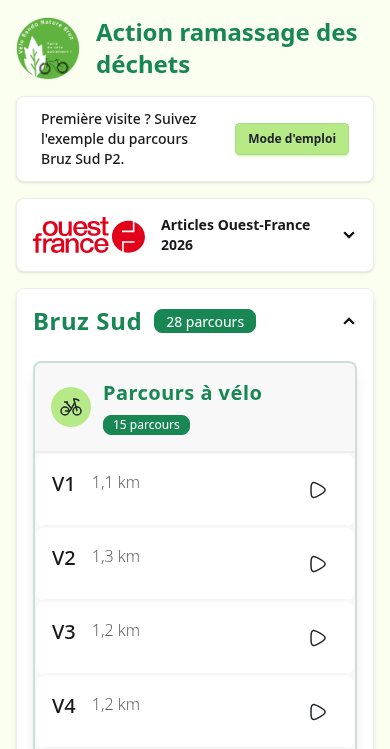
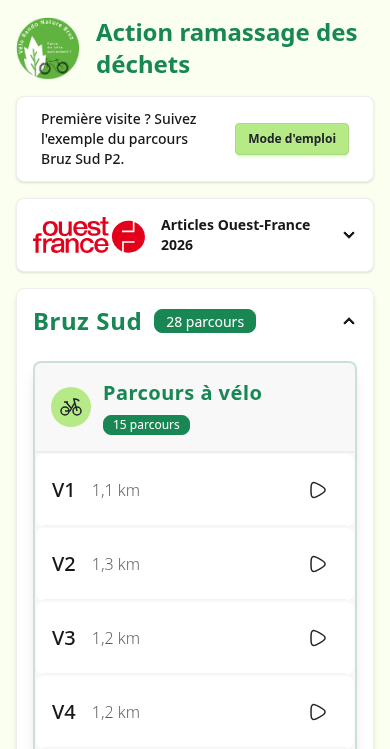
fix: update meeting point references in tour-related files for consistency

diff --git a/apps/clean/src/app/manual/manual.html b/apps/clean/src/app/manual/manual.html
@@ -57,8 +57,8 @@
         <strong>Bruz Sud</strong>
         fait
         <strong>800 mètres</strong>
-        de nettoyage. Comptez un petit trajet pour aller au départ depuis la Place du Dr Joly, puis
-        pour revenir à la fin.
+        de nettoyage. Comptez un petit trajet pour aller au départ depuis le lieu de rendez-vous,
+        puis pour revenir à la fin.
       </p>
 
       <ol class="flex flex-col gap-6">
@@ -89,8 +89,8 @@
         <li>
           <p class="pb-2 text-sm sm:text-base">
             <strong>2. Première étape : l'aller.</strong>
-            La carte vous montre le chemin de la
-            <strong>Place du Dr Joly</strong>
+            La carte vous montre le chemin du
+            <strong>lieu de rendez-vous</strong>
             jusqu'au départ du parcours. Marchez jusque-là, puis appuyez sur
             <strong>Suivant</strong>
             en bas de l'écran.
@@ -133,8 +133,8 @@
         <li>
           <p class="pb-2 text-sm sm:text-base">
             <strong>4. Troisième étape : le retour.</strong>
-            La carte vous montre le chemin pour revenir à la
-            <strong>Place du Dr Joly</strong>
+            La carte vous montre le chemin pour revenir au
+            <strong>lieu de rendez-vous</strong>
             : une fois arrivé, appuyez sur
             <strong>Terminer</strong>
             en bas de l'écran pour valider.
@@ -147,7 +147,7 @@
               loading="lazy"
             />
             <figcaption class="pt-2 text-center text-sm opacity-70">
-              Revenez à la Place du Dr Joly, puis appuyez sur Terminer.
+              Revenez au lieu de rendez-vous, puis appuyez sur Terminer.
             </figcaption>
           </figure>
         </li>
@@ -232,7 +232,7 @@
         </li>
         <li>
           <strong>Télécharger le fichier pour aller au départ :</strong>
-          le chemin depuis la Place du Dr Joly jusqu'au départ, à ouvrir dans votre téléphone.
+          le chemin depuis le lieu de rendez-vous jusqu'au départ, à ouvrir dans votre téléphone.
         </li>
         <li>
           <strong>Télécharger le fichier du parcours :</strong>
@@ -240,20 +240,20 @@
         </li>
         <li>
           <strong>Télécharger le fichier pour revenir :</strong>
-          le chemin de la fin du parcours jusqu'à la Place du Dr Joly.
+          le chemin de la fin du parcours jusqu'au lieu de rendez-vous.
         </li>
         <li>
-          <strong>Revenir à la Place du Dr Joly depuis ma position (via GeoVelo) :</strong>
+          <strong>Revenir au lieu de rendez-vous depuis ma position (via GeoVelo) :</strong>
           ouvre le guidage à vélo depuis l'endroit où vous vous trouvez, pratique si vous vous êtes
           éloigné du parcours.
         </li>
         <li>
           <strong>Itinéraire vers le point de départ (via GeoVelo) :</strong>
-          ouvre le guidage à vélo de la Place du Dr Joly jusqu'au départ du parcours.
+          ouvre le guidage à vélo du lieu de rendez-vous jusqu'au départ du parcours.
         </li>
         <li>
           <strong>Itinéraire pour revenir (via GeoVelo) :</strong>
-          ouvre le guidage à vélo de la fin du parcours jusqu'à la Place du Dr Joly.
+          ouvre le guidage à vélo de la fin du parcours jusqu'au lieu de rendez-vous.
         </li>
       </ul>
     </div>

diff --git a/apps/clean/src/app/tour-drawer/tour-drawer.html b/apps/clean/src/app/tour-drawer/tour-drawer.html
@@ -49,7 +49,7 @@
         <li>
           <a [href]="getGpxUrl('end')" download target="_blank" rel="noopener">
             <hugeicons-icon [icon]="tree06Icon" [strokeWidth]="1.5" alt="" />
-            Télécharger le GPX pour retourner à la {{ meetingPointNameLower }}
+            Télécharger le GPX pour retourner au lieu de rendez-vous
           </a>
         </li>
       }
@@ -67,7 +67,7 @@
           rel="noopener noreferrer"
         >
           <hugeicons-icon [icon]="tree06Icon" [strokeWidth]="1.5" alt="" />
-          Retourner à la {{ meetingPointNameLower }} depuis ma position
+          Retourner au lieu de rendez-vous depuis ma position
         </a>
       </li>
 
@@ -83,7 +83,7 @@
         <li>
           <a [href]="gpxService.links().fromEnd" target="_blank" rel="noopener noreferrer">
             <hugeicons-icon [icon]="tree06Icon" [strokeWidth]="1.5" alt="" />
-            Itinéraire pour retourner à la {{ meetingPointNameLower }}
+            Itinéraire pour retourner au lieu de rendez-vous
           </a>
         </li>
       }

diff --git a/apps/clean/e2e/tour.spec.ts b/apps/clean/e2e/tour.spec.ts
@@ -161,7 +161,7 @@ test.describe('Tour page — V1 (bike)', () => {
       await expect(tourGpx).toHaveAttribute('href', '/gpx/bruz-sud/V1/V1.gpx');
 
       const endGpx = drawerSide.locator('a', {
-        hasText: 'GPX pour retourner à la',
+        hasText: 'GPX pour retourner au lieu',
       });
       await expect(endGpx).toBeVisible();
       await expect(endGpx).toHaveAttribute('href', '/gpx/bruz-sud/V1/V1_end.gpx');
@@ -234,7 +234,7 @@ test.describe('Tour page — P3 (walking)', () => {
     await expect(tourGpx).toHaveAttribute('href', '/gpx/bruz-sud/P3/P3.gpx');
 
     const endGpx = drawerSide.locator('a', {
-      hasText: 'GPX pour retourner à la',
+      hasText: 'GPX pour retourner au lieu',
     });
     await expect(endGpx).toBeVisible();
     await expect(endGpx).toHaveAttribute('href', '/gpx/bruz-sud/P3/P3_end.gpx');

diff --git a/apps/clean/src/app/tour-drawer/tour-drawer.ts b/apps/clean/src/app/tour-drawer/tour-drawer.ts
@@ -10,7 +10,7 @@ import {
   Tree06Icon,
 } from '@hugeicons/core-free-icons';
 import { GpxService } from '../shared/gpx/gpx.service';
-import { DEFAULT_ZONE_ID, getZone } from '../zones';
+import { DEFAULT_ZONE_ID } from '../zones';
 
 @Component({
   selector: 'app-drawer',
@@ -22,14 +22,6 @@ export class TourDrawer {
   title = inject(Title);
   gpxService = inject(GpxService);
   private router = inject(Router);
-
-  readonly meetingPointName = getZone(this.getCurrentZoneId()).meetingPoint.name;
-
-  /** Meeting point name for mid-sentence use, e.g. "à la place du Dr Joly". */
-  get meetingPointNameLower(): string {
-    const name = getZone(this.getCurrentZoneId()).meetingPoint.name;
-    return name.charAt(0).toLowerCase() + name.slice(1);
-  }
 
   pdf02Icon = Pdf02Icon;
   mapsLocationIcon = MapsLocationIcon;

diff --git a/apps/clean/src/app/tours-list/tour-list-section.html b/apps/clean/src/app/tours-list/tour-list-section.html
@@ -27,7 +27,7 @@
   </li>
 
   @for (item of tours; track $index) {
-    <li class="list-row bg-base-100 border-base-200 rounded-lg border">
+    <li class="list-row items-center bg-base-100 border-base-200 rounded-lg border">
       <div class="text-base-content text-xl font-medium sm:text-3xl">{{ item.name }}</div>
       <div class="text-base-content/70 text-base font-light sm:text-xl">
         @if (item.distance < 1) {
